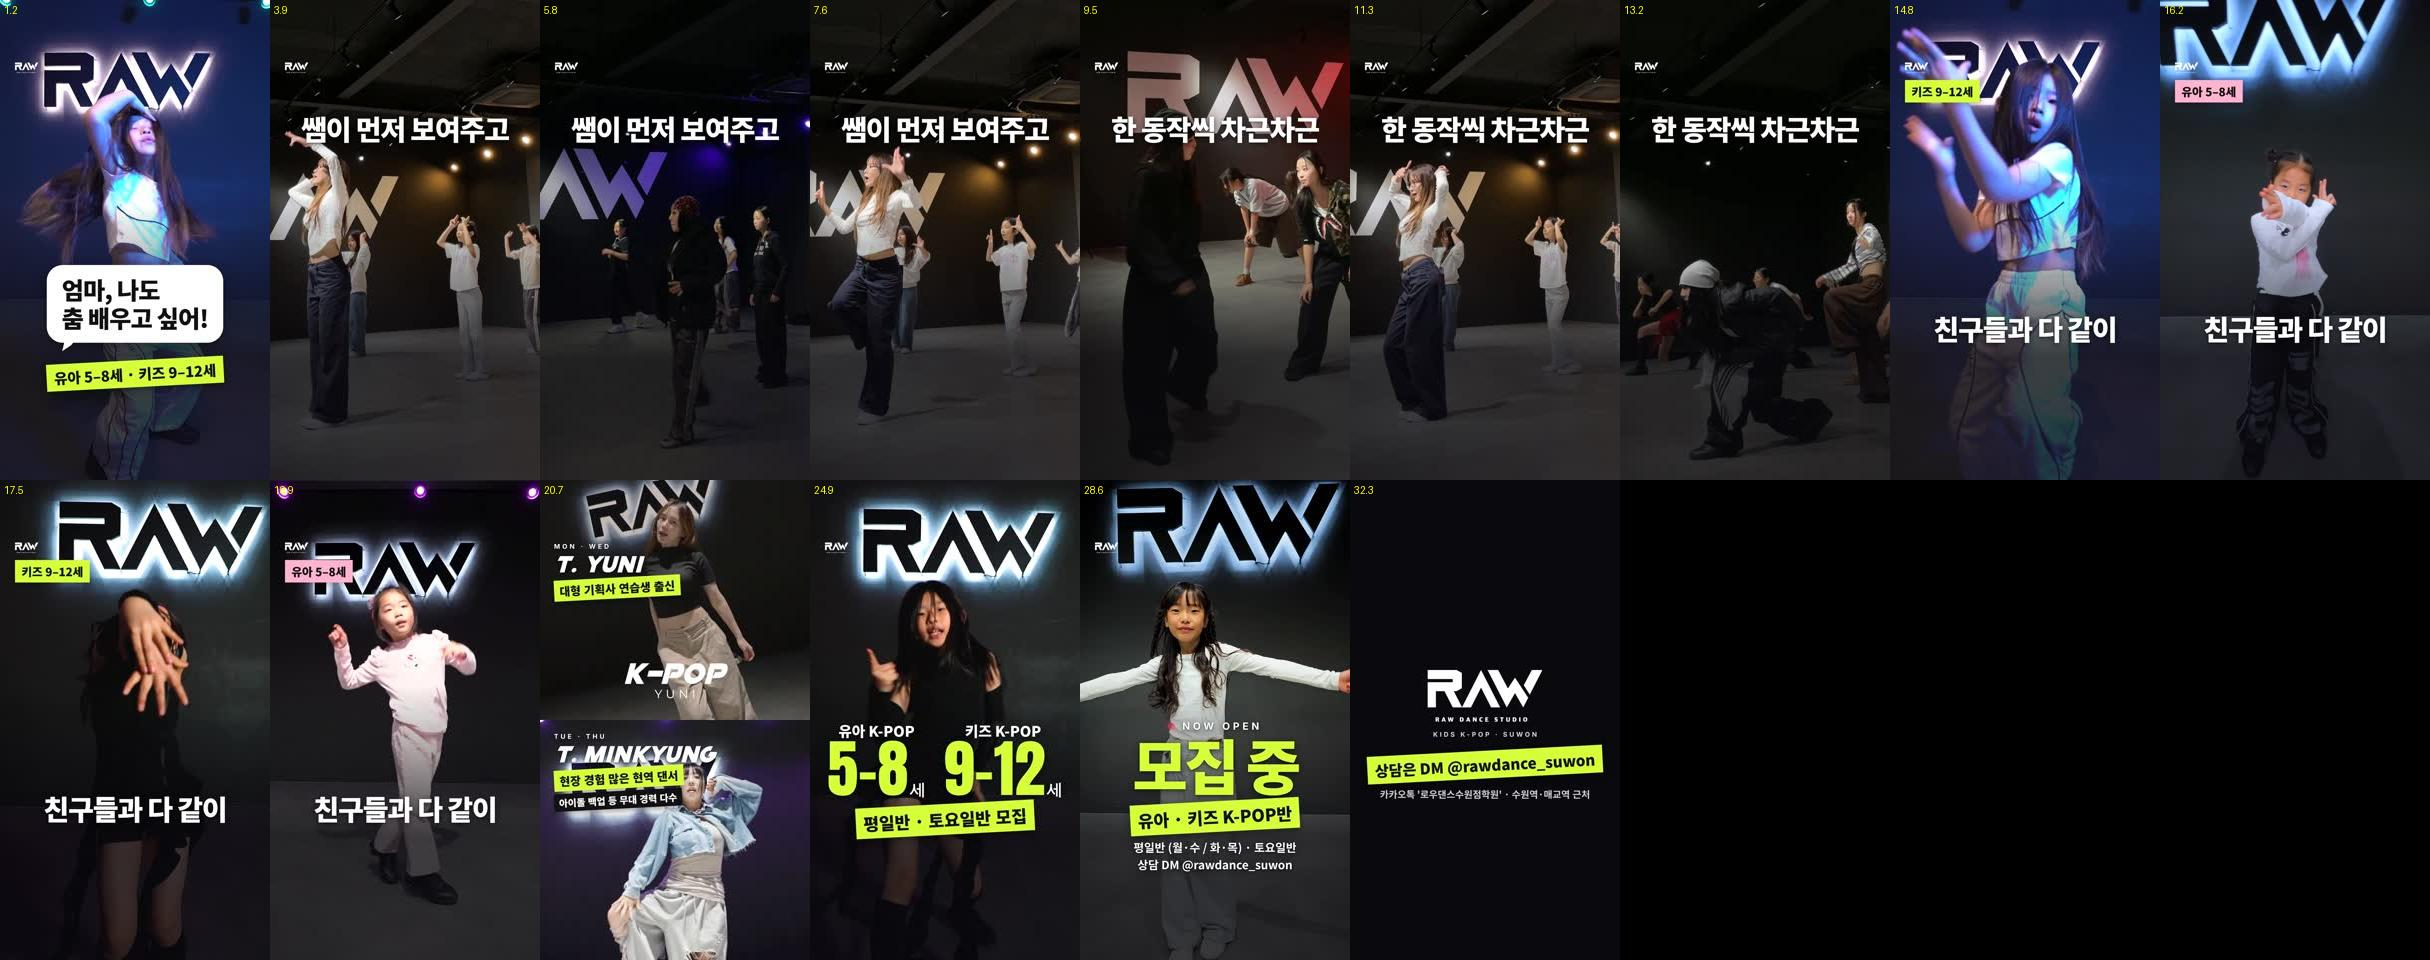
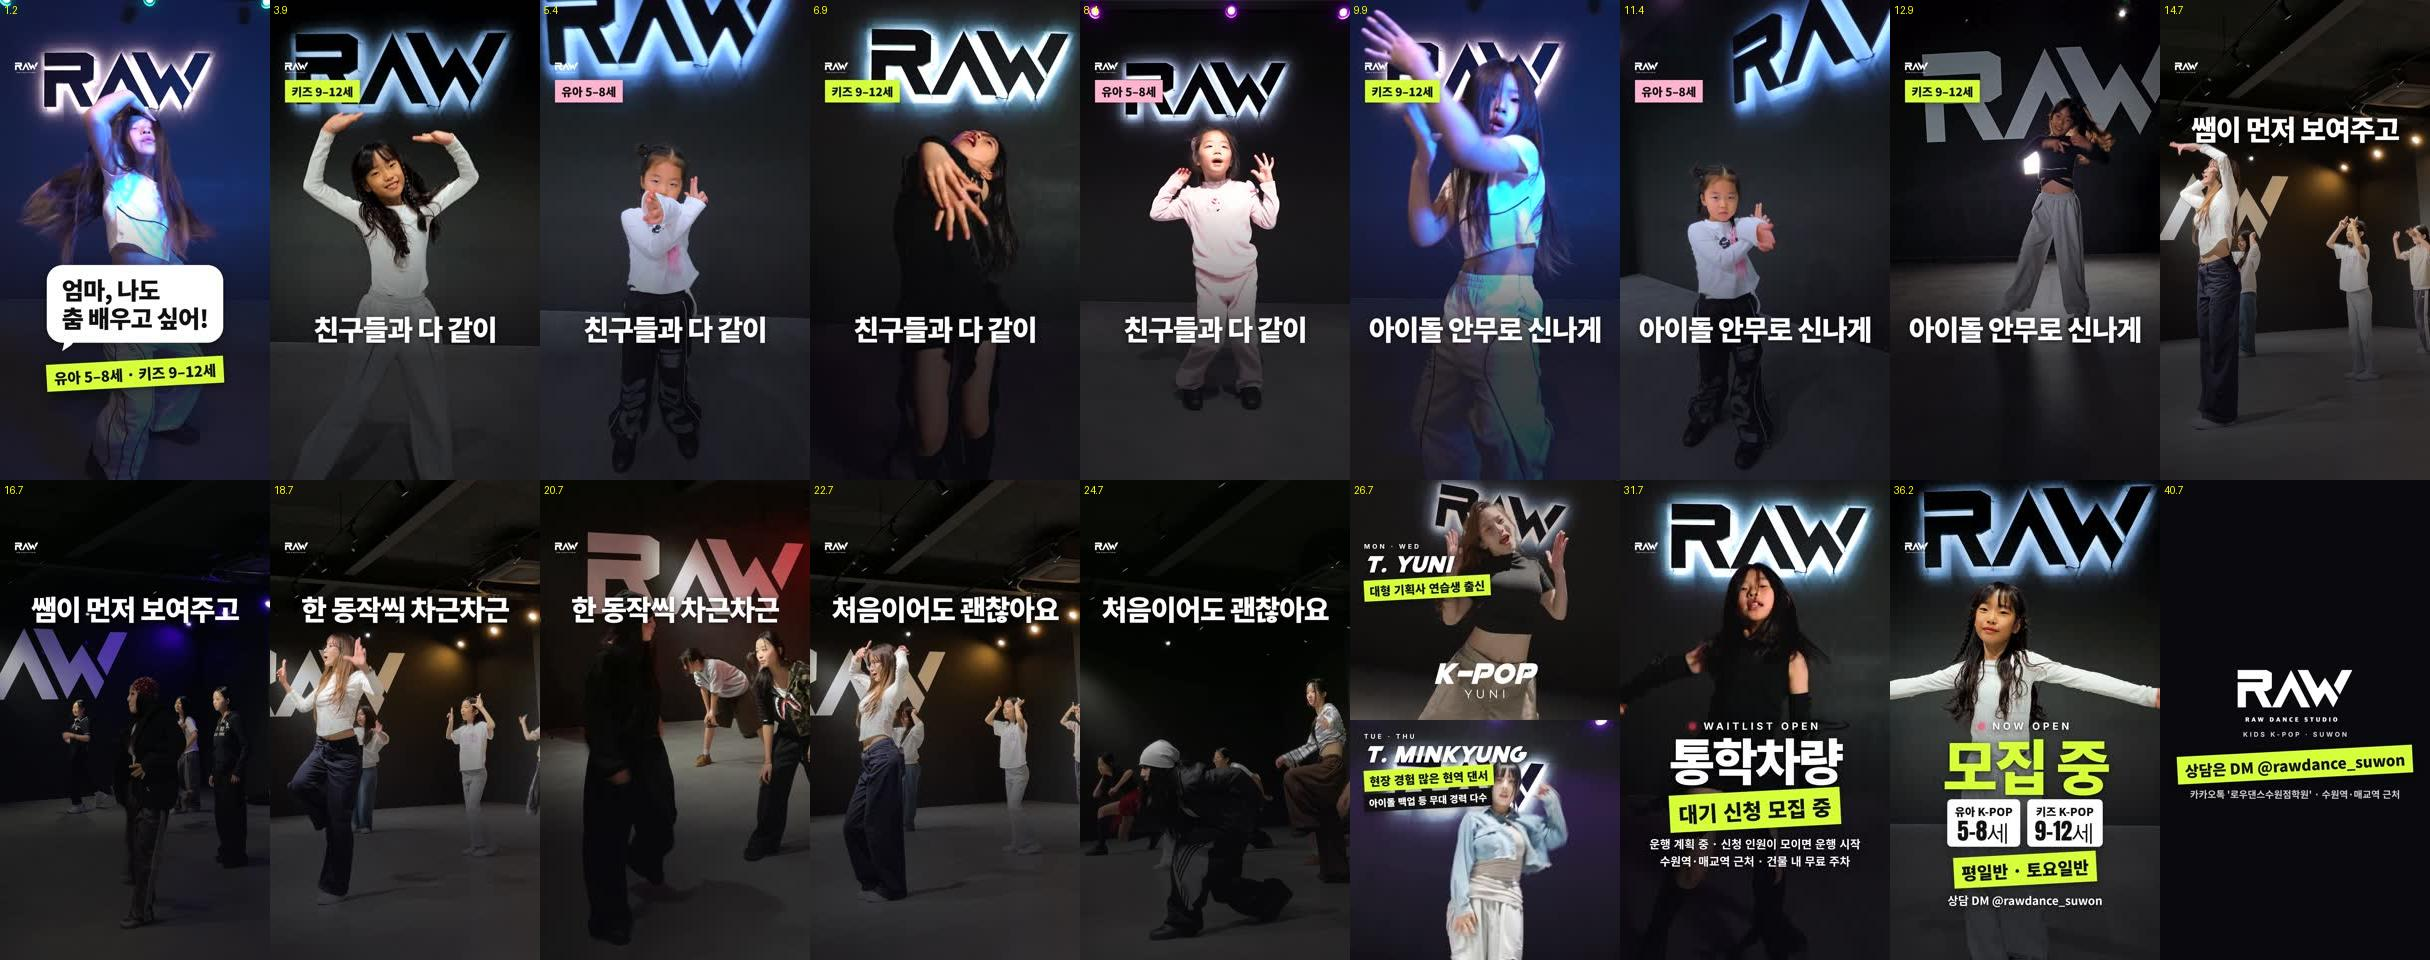
K-POP 광고 B2 3차: 아이들 먼저·쌤 뒤, 통학차량·반 모집 화면, 음원 Private Party
Claude-Session: https://claude.ai/code/session_01CMPXWNa21Fqq6srPZpa27D

diff --git a/content/2026-11-20_kpop-kids-reels3/reels.html b/content/2026-11-20_kpop-kids-reels3/reels.html
@@ -58,6 +58,11 @@
 #info .s{margin-top:26px;font-size:46px;font-weight:800;line-height:1.5}
 #info .now{display:inline-flex;align-items:center;gap:18px;font:700 40px Inter;letter-spacing:.3em;text-indent:.3em}
 #info .now i{display:inline-block;width:28px;height:28px;border-radius:50%;background:#ff3b5c;box-shadow:0 0 24px #ff3b5c}
+#info .cls{display:flex;justify-content:center;gap:28px;margin-top:22px}
+#info .cls div{background:#fff;color:#111;padding:16px 30px 18px;border-radius:18px;box-shadow:0 12px 28px rgba(0,0,0,.35);text-shadow:none}
+#info .cls b{display:block;font-size:44px;font-weight:900}#info .cls span{display:block;font:400 92px/1 Anton;color:#111}
+#info .van{margin-top:6px;font-size:200px;font-weight:900;letter-spacing:-.06em;line-height:1}
+#info .lime.big{margin-top:30px;font-size:84px;padding:14px 36px}
 #info .mz{margin-top:6px;font-size:240px;font-weight:900;letter-spacing:-.06em;line-height:1;color:#D7FF3A}
 #end{inset:0;background:#0b0a0f}
 #end .c{position:absolute;left:0;right:0;top:760px;text-align:center}
@@ -100,7 +105,10 @@ const TY={d:'MON · WED',n:'T. YUNI',a:'대형 기획사 연습생 출신',b:''}
 const INFO=[`<div class="g"><div><div class="ko">유아 K-POP</div><div class="num">5–8<small>세</small></div></div><div><div class="ko">키즈 K-POP</div><div class="num">9–12<small>세</small></div></div></div><div class="lime">평일반 · 토요일반 모집</div>`,
   `<div class="e">DM</div><div class="lime">상담 · 통학차량 대기 신청</div><div class="s">통학차량 운행 계획 중 · 신청 인원이 모이면 운행 시작<br>수원역·매교역 근처 · 건물 내 무료 주차</div>`,
   // B2 (원장님 2026-11-20 "DM 상담 통학차량 멘트보다 모집 중인 거 확실히 보이게") — 통학차량은 캡션에만
-  `<div class="now"><i></i>NOW OPEN</div><div class="mz">모집 중</div><div class="lime">유아 · 키즈 K-POP반</div><div class="s">평일반 (월·수 / 화·목) · 토요일반<br>상담 DM @rawdance_suwon</div>`];
+  `<div class="now"><i></i>NOW OPEN</div><div class="mz">모집 중</div><div class="lime">유아 · 키즈 K-POP반</div><div class="s">평일반 (월·수 / 화·목) · 토요일반<br>상담 DM @rawdance_suwon</div>`,
+  // B2 3차 (원장님 2026-11-20 "차량 멘트 빠졌잖아 / 차량통학 모집중 + 키즈·유아반 모집중 / 모집 멘트는 눈에 띄게")
+  `<div class="now"><i></i>NOW OPEN</div><div class="mz">모집 중</div><div class="cls"><div><b>유아 K-POP</b><span>5–8세</span></div><div><b>키즈 K-POP</b><span>9–12세</span></div></div><div class="lime">평일반 · 토요일반</div><div class="s">상담 DM @rawdance_suwon</div>`,
+  `<div class="now"><i></i>WAITLIST OPEN</div><div class="van">통학차량</div><div class="lime big">대기 신청 모집 중</div><div class="s">운행 계획 중 · 신청 인원이 모이면 운행 시작<br>수원역·매교역 근처 · 건물 내 무료 주차</div>`];   // 통학차량 문구: 11-17·11-19 검수 통과 표현
 window.setup=o=>{ TL=o.tl; VER=o.ver; };
 let last='';
 window.render=t=>{
@@ -136,6 +144,8 @@ window.render=t=>{
   if(k==='info'){ show('info',true); const I=$('info'); if(fresh) I.innerHTML=INFO[s.i];
     fade(I,v,0,0,30); pop(I.querySelector('.lime'),v,0.3);
     const D=I.querySelector('.now i'); if(D) D.style.opacity=0.35+0.65*(0.5+0.5*Math.cos(v*Math.PI*2/0.93));
+    I.querySelectorAll('.cls div').forEach((c,j)=>{ const p=eo((v-0.3-0.12*j)/0.2); c.style.opacity=p; c.style.transform=`translateY(${(1-p)*30}px)`; });
+    const Vn=I.querySelector('.van'); if(Vn){ const p=eo((v-0.05)/0.22); Vn.style.transform=`scale(${1.2-0.2*p})`; Vn.style.opacity=p; }
     const M=I.querySelector('.mz'); if(M){ const p=eo((v-0.1)/0.22); M.style.transform=`scale(${1.25-0.25*p})`; M.style.opacity=p; } }
   if(k==='logo'){ show('end',true); $('end').style.opacity=eo(v/0.35); pop($('end').querySelector('.lime'),v,0.4); }
 };

diff --git a/content/2026-11-20_kpop-kids-reels3/make_reels.py b/content/2026-11-20_kpop-kids-reels3/make_reels.py
@@ -146,23 +146,27 @@ elif WHICH == "B":
             (8, ("fill", "1119_kids_insta.mp4", pk("1119_kids_insta.mp4", 2)[1]), INFO[0]), (8, ("fill", "1021_kids.mp4", pk("1021_kids.mp4", 2)[1]), INFO[1]),
             (8, ("fill", "clip3.mp4", 0), LOGO)]
 elif WHICH == "B2":
-    # 원장님 2026-11-20: B 느낌 좋음 / STEP 1·2·3 빼고 / 시작만 아이 말투 "엄마, 나도 춤 배우고 싶어" / 광고니까 첫 장면 후킹
-    song, bpm, first = "street.wav", 129.25, 0.453
-    c = pk(CLS, 3, 3.0, gap=3.0); ys, ms = yt(1, 4.6), mt(1, 4.6); m1 = mt(2, 6.6, 6)
-    ZN6 = (0.45, 0.66, 0.65)
-    L1 = {"kind": "line", "e": "쌤이 먼저 보여주고", "sub": "", "y": 450}
-    L2 = {"kind": "line", "e": "한 동작씩 차근차근", "sub": "", "y": 450}
-    L3 = {"kind": "line", "e": "친구들과 다 같이", "sub": ""}
+    # 원장님 2026-11-20 (3차): 순서 = 엄마 나 춤 배우고 싶어 → 아이들(친구들과 다 같이 + 한 줄 더) → 쌤 수업(먼저 보여주고 · 한 동작씩 차근차근 · 처음이어도 괜찮아요)
+    #   → 쌤 2분할 → 통학차량 대기 신청 모집 중 + 유아·키즈반 모집 중 (모집 문구 눈에 띄게). 살짝 길어져도 됨. 음원은 Street Fighters 말고 다른 곡
+    # 쌤 수업 컷: YUNI(IMG_1053)·민경쌤(IMG_0620·1076·0415) 번갈아, 쌤 쪽 확대 (전문반 학생 얼굴 크게 안 나오게, 검수 조건)
+    song, bpm, first = "party.wav", 120.0, 0.029
+    ys, ms = yt(1, 5.2), mt(1, 5.2); ZN6 = (0.45, 0.66, 0.65)
+    K1 = {"kind": "line", "e": "친구들과 다 같이", "sub": ""}
+    K2 = {"kind": "line", "e": "아이돌 안무로 신나게", "sub": ""}
+    T1 = {"kind": "line", "e": "쌤이 먼저 보여주고", "sub": "", "y": 450}
+    T2 = {"kind": "line", "e": "한 동작씩 차근차근", "sub": "", "y": 450}
+    T3 = {"kind": "line", "e": "처음이어도 괜찮아요", "sub": "", "y": 450}
+    k = lambda f, i, beats, txt, tag, off=0.3: (beats, ("fill", f, pk(f, 2)[i] + off), dict(txt, tag=tag))
     plan = [(6, ("fill", "clip3.mp4", pk("clip3.mp4", 2)[0]), {"kind": "bubble", "say": "엄마, 나도<br>춤 배우고 싶어!", "band": "유아 5–8세 · 키즈 9–12세"}),
-            # 원장님 2026-11-20 "쌤이 애들 설명해 주는 영상은 유니·민경 둘 다 적절히 끊어 가면서, 한 영상만 너무 길어, 전문반 멘트는 안 들어가도 돼"
-            # → YUNI 수업(IMG_1053, 유아·키즈 앞에서 시범)과 민경쌤 수업(IMG_0620·1076·0415)을 4박(약 2초)씩 번갈아. 컷마다 쌤 이름은 안 붙임(쌤 소개는 뒤 2분할 화면)
-            (4, ("fill", CLS, 1.0, ZN6), L1), (4, ("fill", "m0620.mov", 2.4, (0.45, 0.6, 0.6)), L1), (4, ("fill", CLS, 5.5, ZN6), L1),
-            (4, ("fill", "m1076.mov", 0.2, (0.42, 0.66, 0.68)), L2), (4, ("fill", CLS, 10.0, ZN6), L2), (4, ("fill", "m0415.mov", 8.5, (0.38, 0.66, 0.62)), L2),
-            (3, ("fill", "clip3.mp4", pk("clip3.mp4", 2)[1] + 0.3), dict(L3, tag="키즈 9–12세")), (3, ("fill", "1118_yua.mp4", pk("1118_yua.mp4", 2)[0] + 0.3), dict(L3, tag="유아 5–8세")),
-            (3, ("fill", "1119_kids_insta.mp4", pk("1119_kids_insta.mp4", 2)[0] + 0.3), dict(L3, tag="키즈 9–12세")), (3, ("fill", "1112_yua_insta.mp4", pk("1112_yua_insta.mp4", 2)[0] + 0.3), dict(L3, tag="유아 5–8세")),
-            (9, ("split", (YT, ys[0]), (MT, ms[0])), {"kind": "pair"}),
-            (8, ("fill", "1119_kids_insta.mp4", pk("1119_kids_insta.mp4", 2)[1]), INFO[0]), (8, ("fill", "1021_kids.mp4", pk("1021_kids.mp4", 2)[1]), {"kind": "info", "i": 2}),   # 모집 중 강조 (원장님 2026-11-20)
-            (8, ("fill", "clip3.mp4", 0), LOGO)]
+            k("1021_kids.mp4", 0, 3, K1, "키즈 9–12세"), k("1118_yua.mp4", 0, 3, K1, "유아 5–8세"), k("1119_kids_insta.mp4", 0, 3, K1, "키즈 9–12세"), k("1112_yua_insta.mp4", 0, 3, K1, "유아 5–8세"),
+            k("clip3.mp4", 1, 3, K2, "키즈 9–12세"), k("1118_yua.mp4", 1, 3, K2, "유아 5–8세"), k("1104_kpop.mp4", 0, 3, K2, "키즈 9–12세"),
+            (4, ("fill", CLS, 1.0, ZN6), T1), (4, ("fill", "m0620.mov", 2.4, (0.45, 0.6, 0.6)), T1),
+            (4, ("fill", CLS, 5.5, ZN6), T2), (4, ("fill", "m1076.mov", 0.2, (0.42, 0.66, 0.68)), T2),
+            (4, ("fill", CLS, 10.0, ZN6), T3), (4, ("fill", "m0415.mov", 8.5, (0.38, 0.66, 0.62)), T3),
+            (10, ("split", (YT, ys[0]), (MT, ms[0])), {"kind": "pair"}),
+            (9, ("fill", "1119_kids_insta.mp4", pk("1119_kids_insta.mp4", 2)[1]), {"kind": "info", "i": 4}),   # 통학차량 대기 신청 모집 중
+            (9, ("fill", "1021_kids.mp4", pk("1021_kids.mp4", 2)[1]), {"kind": "info", "i": 3}),              # 유아·키즈반 모집 중
+            (6, ("fill", "clip3.mp4", 0), LOGO)]
 else:
     song, bpm, first = "madness.wav", 130.0, 0.435
     CUT[YT] = 766   # 2분할 위 화면에서 YUNI 티저 글자가 첫 화면 'K-POP KIDZ'·가운데 띠와 겹쳐서 C만 YUNI도 잘라 씀

diff --git a/content/2026-11-20_kpop-kids-reels3/instagram.md b/content/2026-11-20_kpop-kids-reels3/instagram.md
@@ -79,19 +79,20 @@
 #수원키즈댄스 #수원유아댄스 #수원kpop댄스 #키즈케이팝 #로우댄스수원점
 ```
 
-## B2. 원장님 선택안 — "엄마, 나도 춤 배우고 싶어" · 35초 · `KPOP_reel_B2.mp4` (Street Fighters 129 BPM)
-> 원장님 2026-11-20: B 느낌 좋음 → STEP 1·2·3 빼고, 시작만 아이 말투("엄마, 나도 춤 배우고 싶어", "아이돌 춤 진짜진짜"는 뺌), 민경쌤 수업 영상(전문반) 새로 올림 → 쌤 시범 자리에
-> 원장님 2026-11-20 2차: "쌤이 애들 설명해 주는 영상은 유니·민경 둘 다 적절히 끊어 가면서, 전문반 멘트는 안 들어가도 돼" → 6컷 교차, 전문반 표시 뺌(IMG_1076 다시 넣음 = 원장님 결정) / "DM 상담 통학차량 멘트보다 모집 중 확실히" → 정보 2번째 화면 교체 / 음원은 가사 있는 곡으로 교체 예정(원장님이 곡 전달)
+## B2. 원장님 선택안 — "엄마, 나도 춤 배우고 싶어" · 42.5초 · `KPOP_reel_B2.mp4` (Private Party 120 BPM)
+> 원장님 2026-11-20: B 느낌 좋음 → STEP 1·2·3 빼고, 시작만 아이 말투, 민경쌤 수업 영상 새로 올림
+> 원장님 2026-11-20 3차: "아이들 춤 영상이 앞, 쌤 설명은 뒤 / 노래는 Street Fighters 말고 다른 곡 / 차량 멘트 빠졌잖아, 살짝 길어져도 됨 / 순서 = 엄마 나 춤 배우고 싶어 → 친구들과 같이 + 멘트 하나 더 → 쌤(먼저 보여주고 · 한 동작씩 차근차근 · 초보도 괜찮다) → 쌤 2분할 → 차량통학 모집 중 + 키즈·유아반 모집 중, 모집 멘트는 눈에 띄게"
+> 원장님 확인 2026-11-20: 아이돌 안무 "그대로 써"(docs/instagram-ads.md 예외 기록) / 민경쌤 전문반 영상 3개 학교명 "안 보여"
 
 | 시간 | 화면 | 글자 |
 |---|---|---|
 | 0~3초 | 키즈반 아이 춤 | 말풍선(••• 뒤 톡) "엄마, 나도 춤 배우고 싶어!" / 연두 띠 "유아 5–8세 · 키즈 9–12세" |
-| 3~9초 | YUNI 수업(IMG_1053) · 민경쌤 수업(IMG_0620) · YUNI 수업 — 약 2초씩, 쌤 쪽 확대 | "쌤이 먼저 보여주고" |
-| 9~14초 | 민경쌤(IMG_1076) · YUNI(IMG_1053) · 민경쌤(IMG_0415) — 약 2초씩, 쌤 쪽 확대 | "한 동작씩 차근차근" |
-| 14~19초 | 유아·키즈 4컷 | 유아 5–8세·키즈 9–12세 / "친구들과 다 같이" |
-| 19~23초 | 위 YUNI 티저 · 아래 MINKYUNG 티저 | 요일 · 이름 · 이력 |
-| 23~27초 | 정보 1 | 유아 K-POP 5–8세 · 키즈 K-POP 9–12세 / "평일반 · 토요일반 모집" |
-| 27~31초 | 정보 2 (모집 중) | "● NOW OPEN / 모집 중 / 유아 · 키즈 K-POP반 / 평일반 (월·수 / 화·목) · 토요일반 / 상담 DM @rawdance_suwon" (통학차량은 캡션에만) |
-| 31~35초 | 끝 화면 | A와 같음 |
+| 3~9초 | 유아·키즈 4컷 | "친구들과 다 같이" (컷마다 유아 5–8세 / 키즈 9–12세) |
+| 9~13.5초 | 유아·키즈 3컷 | "아이돌 안무로 신나게" (나이 표시) |
+| 13.5~25.5초 | YUNI 수업(IMG_1053) · 민경쌤 수업(IMG_0620·1076·0415) 2초씩 번갈아 6컷, 쌤 쪽 확대 | "쌤이 먼저 보여주고" → "한 동작씩 차근차근" → "처음이어도 괜찮아요" |
+| 25.5~30.5초 | 위 YUNI 티저 · 아래 MINKYUNG 티저 | 요일 · 이름 · 이력 |
+| 30.5~35초 | 통학차량 | "● WAITLIST OPEN / 통학차량 / 대기 신청 모집 중 / 운행 계획 중 · 신청 인원이 모이면 운행 시작 / 수원역·매교역 근처 · 건물 내 무료 주차" |
+| 35~39.5초 | 반 모집 | "● NOW OPEN / 모집 중 / [유아 K-POP 5–8세] [키즈 K-POP 9–12세] / 평일반 · 토요일반 / 상담 DM @rawdance_suwon" |
+| 39.5~42.5초 | 끝 화면 | RAW 로고 / 상담은 DM @rawdance_suwon |
 
 캡션 첫 줄: `엄마, 나도 춤 배우고 싶어! — 유아·키즈 K-POP반 모집` (아래는 공통 캡션 그대로)

diff --git a/docs/instagram-ads.md b/docs/instagram-ads.md
@@ -9,6 +9,7 @@
 - **상업 음원(아이돌 곡)이 들어간 릴스는 홍보가 안 되거나 거절될 수 있다.** 인스타 음원 목록의 곡은 비상업 용도로 허락된 것이다. 광고는 상업적 이용 가능 음원으로 편집한 영상을 쓴다 → `content/2026-10-08_saturday-kpop-promo/edit-guide.md`의 **15초 광고 컷**.
 - 아이돌 곡 안무가 알아볼 수 있게 나오는 컷은 광고에서 뺀다 (안무 저작권 리스크, 위 편집 지시서 검수 메모 참고).
   - **예외 승인 기록:** 2026-11-19 원장님이 유아·키즈 K-POP반 광고 릴스 30초(`content/2026-11-19_kpop-kids-ad/`)에 수강생 아이돌 안무 컷(1초 안팎)을 **리스크(권리자 신고 시 광고 중단 가능)를 알고 그대로 쓰기로 승인**. 이 광고에만 해당, 다른 광고는 건별로 다시 확인.
+  - **예외 승인 기록:** 2026-11-20 원장님이 유아·키즈 K-POP 광고 릴스 B2(`content/2026-11-20_kpop-kids-reels3/KPOP_reel_B2.mp4`, 쌤 티저·쌤 수업·수강생 영상 포함)도 같은 조건으로 "그대로 써" 승인. 이 광고에만 해당.
 - 광고 문구에는 반 이름과 **정확한 교습비**를 쓴다 ("~부터" 금지). 키즈힙합은 교습비 미정이라 광고하지 않는다. 키즈전문반은 월 35만원(2026-10-17 확정)이며 요일·시간이 미정이므로 '개강 멤버 모집 중, 일정은 상담 시 안내'로만 쓴다.
 
 ## 1. 타깃 세트
